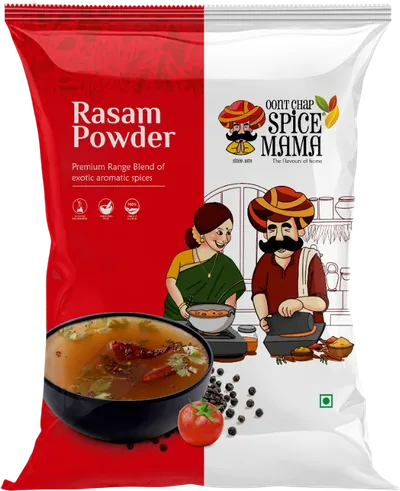
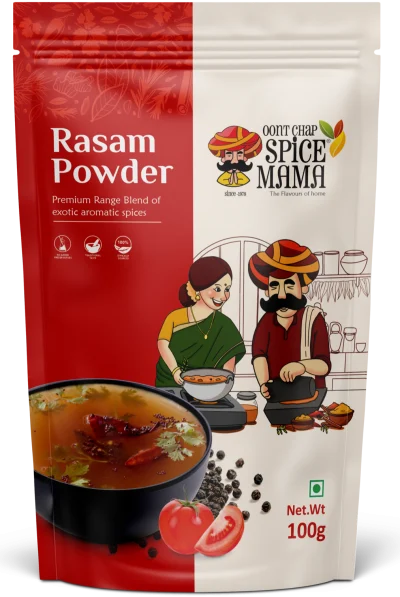
Use new pack mockups and family artwork
- 10 product pack images replaced with the owner's mockups (transparent,
  trimmed); red-chilli-pickle pack image added for the coming product
- "In the kitchen" recipes use the Spice Mama family artwork instead of
  placeholder crops (rasam, sambar, aloo methi fry); placeholder tags removed
- Image width/height attributes updated; sources recorded in SOURCES.md

diff --git a/frontend/index.html b/frontend/index.html
@@ -71,7 +71,7 @@
       </div>
     </div>
     <p class="te-tag" lang="te">గుంటూరు<span>ఆంధ్రప్రదేశ్</span></p>
-    <img class="pouch" src="/assets/images/packs/guntur-gold-premium-chilli-powder.webp" width="721" height="1089" alt="Spice Mama Guntur Gold Premium Chilli Powder stand-up pouch" fetchpriority="high">
+    <img class="pouch" src="/assets/images/packs/guntur-gold-premium-chilli-powder.webp" width="780" height="1100" alt="Spice Mama Guntur Gold Premium Chilli Powder stand-up pouch" fetchpriority="high">
     <div class="origin" id="story">
       <p class="since">Since <b>1978</b></p>
       <h2>Opposite the Market Yard, Guntur.</h2>
@@ -115,11 +115,11 @@
   </div>
 
   <article class="recipe" id="r-rasam" role="tabpanel" aria-labelledby="t-rasam" tabindex="0">
-    <div class="dish"><img src="/assets/images/recipes/tomato-rasam.webp" width="400" height="270" alt="A bowl of rasam with tomato and dried red chilli" loading="lazy" decoding="async"><span class="tagph">Placeholder: crop from pack art. Needs real food photography.</span></div>
+    <div class="dish"><img src="/assets/images/recipes/tomato-rasam.webp" width="1200" height="900" alt="Illustration: the Spice Mama couple cooking rasam at the stove" loading="lazy" decoding="async"></div>
     <div>
       <h3>Tomato rasam</h3>
       <p class="meta">Serves 4 · 25 minutes</p>
-      <a class="uses" href="/product.html?slug=rasam-powder"><img src="/assets/images/packs/rasam-powder-sm.webp" width="400" height="491" alt="" loading="lazy" decoding="async"><span>Made with Spice Mama Rasam Powder</span></a>
+      <a class="uses" href="/product.html?slug=rasam-powder"><img src="/assets/images/packs/rasam-powder-sm.webp" width="400" height="597" alt="" loading="lazy" decoding="async"><span>Made with Spice Mama Rasam Powder</span></a>
       <h4>You need</h4>
       <ul><li>A lime-sized ball of tamarind, soaked in 2 cups warm water</li><li>2 ripe tomatoes, crushed by hand</li><li>1½ tsp rasam powder, ¼ tsp turmeric powder, salt</li><li>½ cup thin cooked toor dal water</li><li>Ghee, mustard seeds, 2 dried red chillies, curry leaves, a pinch of hing, coriander leaves</li></ul>
       <h4>Method</h4>
@@ -128,11 +128,11 @@
   </article>
 
   <article class="recipe" id="r-sambar" role="tabpanel" aria-labelledby="t-sambar" tabindex="0" hidden>
-    <div class="dish"><img src="/assets/images/recipes/vegetable-sambar.webp" width="400" height="285" alt="A bowl of vegetable sambar with drumstick and potato" loading="lazy" decoding="async"><span class="tagph">Placeholder: crop from pack art. Needs real food photography.</span></div>
+    <div class="dish"><img src="/assets/images/recipes/vegetable-sambar.webp" width="1200" height="900" alt="Illustration: the Spice Mama couple tasting vegetable sambar" loading="lazy" decoding="async"></div>
     <div>
       <h3>Mixed vegetable sambar</h3>
       <p class="meta">Serves 4 · 40 minutes</p>
-      <a class="uses" href="/product.html?slug=sambar-powder"><img src="/assets/images/packs/sambar-powder-sm.webp" width="400" height="605" alt="" loading="lazy" decoding="async"><span>Made with Spice Mama Sambar Powder</span></a>
+      <a class="uses" href="/product.html?slug=sambar-powder"><img src="/assets/images/packs/sambar-powder-sm.webp" width="400" height="597" alt="" loading="lazy" decoding="async"><span>Made with Spice Mama Sambar Powder</span></a>
       <h4>You need</h4>
       <ul><li>½ cup toor dal, cooked soft with turmeric</li><li>2 cups vegetables: drumstick, potato, shallots</li><li>A small ball of tamarind, soaked and squeezed</li><li>2 tbsp sambar powder, salt</li><li>Oil, mustard seeds, a few fenugreek seeds, dried red chilli, curry leaves, hing</li></ul>
       <h4>Method</h4>
@@ -141,11 +141,11 @@
   </article>
 
   <article class="recipe" id="r-methi" role="tabpanel" aria-labelledby="t-methi" tabindex="0" hidden>
-    <div class="dish"><img src="/assets/images/recipes/aloo-methi-fry.webp" width="320" height="250" alt="A bowl of potato fry with fenugreek leaves" loading="lazy" decoding="async"><span class="tagph">Placeholder: crop from pack art. Needs real food photography.</span></div>
+    <div class="dish"><img src="/assets/images/recipes/aloo-methi-fry.webp" width="1200" height="900" alt="Illustration: the Spice Mama family cooking with kasuri methi" loading="lazy" decoding="async"></div>
     <div>
       <h3>Aloo methi fry</h3>
       <p class="meta">Serves 3 · 25 minutes</p>
-      <a class="uses" href="/product.html?slug=kasuri-methi"><img src="/assets/images/packs/kasuri-methi-sm.webp" width="400" height="490" alt="" loading="lazy" decoding="async"><span>Made with Spice Mama Kasuri Methi and Guntur Gold</span></a>
+      <a class="uses" href="/product.html?slug=kasuri-methi"><img src="/assets/images/packs/kasuri-methi-sm.webp" width="400" height="488" alt="" loading="lazy" decoding="async"><span>Made with Spice Mama Kasuri Methi and Guntur Gold</span></a>
       <h4>You need</h4>
       <ul><li>3 potatoes, cubed</li><li>2 tbsp kasuri methi, crushed between your palms</li><li>1 tsp chilli powder, 1 tsp coriander powder, ½ tsp turmeric, salt</li><li>2 tbsp oil, 1 tsp cumin seeds</li></ul>
       <h4>Method</h4>

diff --git a/frontend/about.html b/frontend/about.html
@@ -67,8 +67,8 @@
       </div>
       <div class="pack-row reveal" aria-hidden="true">
         <img src="/assets/images/packs/oont-chap-chilli-powder-sm.webp" width="400" height="558" alt="" loading="lazy" decoding="async">
-        <img src="/assets/images/packs/guntur-gold-premium-chilli-powder-sm.webp" width="400" height="604" alt="" loading="lazy" decoding="async">
-        <img src="/assets/images/packs/turmeric-powder-sm.webp" width="400" height="610" alt="" loading="lazy" decoding="async">
+        <img src="/assets/images/packs/guntur-gold-premium-chilli-powder-sm.webp" width="400" height="564" alt="" loading="lazy" decoding="async">
+        <img src="/assets/images/packs/turmeric-powder-sm.webp" width="400" height="518" alt="" loading="lazy" decoding="async">
       </div>
     </div>
     <div class="houses">

diff --git a/frontend/assets/images/SOURCES.md b/frontend/assets/images/SOURCES.md
@@ -5,3 +5,7 @@ Derived web images and the repository original they come from (originals in `Ima
 | Web image | Source original | How |
 |---|---|---|
 | `campaign/pounding-scene.webp` | `Images/WhatsApp Image 2026-10-27 at 06.26.37.jpeg` (Guntur Gold pack front) | crop x628 y418 327×545 (inside the pack's red panel), WebP q86; used on `maintenance.html` |
+| `packs/<slug>.webp`, `packs/<slug>-sm.webp` (10 products + `red-chilli-pickle`) | `~/Downloads/Spicemama_Mockup/*.png` (owner-supplied pack mockups, 2026-11-07) | transparent margins trimmed, 1100 px tall (`-sm`: 400 px wide), WebP q86 with alpha. Not yet replaced: `oont-chap-chilli-powder` (no mockup supplied) |
+| `recipes/tomato-rasam.webp` | `~/Downloads/Spice mama art/Rasam.jpg` | 4:3 crop, 1200×900, WebP q84 |
+| `recipes/vegetable-sambar.webp` | `~/Downloads/Spice mama art/Sambar.jpg` | 4:3 crop from 25% down, 1200×900 |
+| `recipes/aloo-methi-fry.webp` | `~/Downloads/Spice mama art/kasuri methi copy.png` | transparency flattened on white, 4:3 crop from 27% down, 1200×900 |
